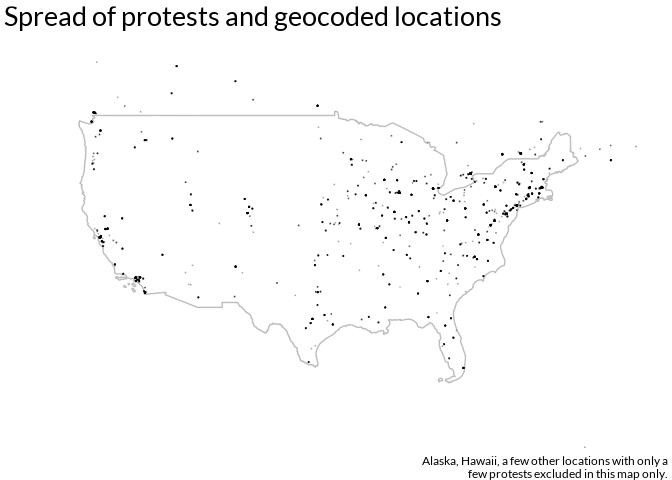
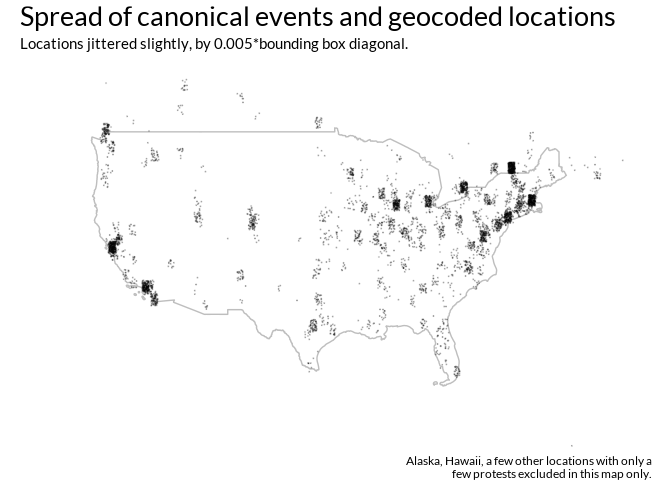
revisions

diff --git a/docs/exploratory_plots.md b/docs/exploratory_plots.md
@@ -28,18 +28,19 @@ The initial import of the MPEDS db found 5220 unique canonical events,
 and after all cleaning steps we still have 5220 canonical events.
 
 However, there’s still an issue regarding duplicate matches in IPEDS we
-can detect; there are lots of schools called “Columbia College” inside
-IPEDS, so any schools with that name in MPEDS will be assigned multiple
-schools. The MPEDS-IPEDS join is crucial because we also use IPEDS to
-join county FIPS identifiers, and thus no further joins will be accurate
-unless the MPEDS-IPEDS join is accurate. We currently have 5260 rows in
-the final dataset, indicating that this problem applies to some 40
-canonical events.
+can detect (there are likely also incorrect matches that we can’t detect
+programmatically right now); there are lots of schools called “Columbia
+College” (or another common name) inside IPEDS, so any schools with that
+name in MPEDS will be assigned multiple schools. The MPEDS-IPEDS join is
+crucial because we also use IPEDS to join county FIPS identifiers, and
+thus no further joins will be accurate unless the MPEDS-IPEDS join is
+accurate. We currently have 5260 rows in the final dataset, indicating
+that this problem applies to some 40 canonical events.
 
 Fixing it just requires a rewrite of how the join is done, so that we
-join on IDs, not names, for at least all ambiguous cases. This doesn’t
-require adjustments to the instructions given to student coders, but it
-does require a little bit of time on my part, so it hasn’t been
+join on IPEDS IDs, not names, for at least all ambiguous cases. This
+doesn’t require adjustments to the instructions given to student coders,
+but it does require a little bit of time on my part, so it hasn’t been
 completed yet.
 
 Of those events, there were 517 unique locations, 291 unique counties,
@@ -49,9 +50,10 @@ indicates that there isn’t a strong pattern of missing value
 substitution, e.g. Google isn’t sending the majority of results to the
 centroid of America or to `(-1, -1)` or anything weird like that.
 Universities had a harder time, with 23 universities and 133 rows
-(canonical events) not returning lon/lat coords. That comes out to \~5%
-of universities not having coordinates, and \~2.5% of canonical events
-not having universities with coordinates.
+(canonical events) not returning lon/lat coords for universities.
+
+That comes out to \~5% of universities not having coordinates, and
+\~2.5% of canonical events not having universities with coordinates.
 
 The top universities by appearances:
 
@@ -117,6 +119,45 @@ kable(location_counts)
 | Davis, CA, USA         |  47 |
 | Ithaca, NY, USA        |  46 |
 
+Top states:
+
+``` r
+state_fips <- fips_codes %>% 
+  select(state_code, state_name) %>% 
+  distinct()
+
+state_counts <- mpeds %>% 
+  mutate(state_code = str_sub(fips, 1, 2)) %>% 
+  group_by(state_code) %>% 
+  count() %>% 
+  ungroup() %>% 
+  drop_na() %>% 
+  slice_max(order_by = n, n = 15) %>% 
+  left_join(state_fips, by = "state_code") %>% 
+  select(-state_code)
+  
+kable(state_counts)
+```
+
+|   n | state_name           |
+|----:|:---------------------|
+| 730 | California           |
+| 332 | Massachusetts        |
+| 281 | New York             |
+| 254 | Illinois             |
+| 168 | Michigan             |
+| 160 | Pennsylvania         |
+| 144 | Texas                |
+| 108 | Florida              |
+| 107 | District of Columbia |
+| 106 | Virginia             |
+| 101 | North Carolina       |
+|  90 | Connecticut          |
+|  89 | Ohio                 |
+|  88 | Indiana              |
+|  85 | Missouri             |
+|  85 | New Jersey           |
+
 And finally the top counties:
 
 ``` r
@@ -156,8 +197,11 @@ kable(county_counts)
 |  43 | Boone County, Missouri                     |
 
 These glimpses seem mostly in line with what we should expect, with a
-strong caveat that the Missouri protests are not making an appearance
-here. That’s a bit alarming, so I’ll look into that.
+strong caveat that the Missouri protests are not making a leading
+appearance here. That’s a bit alarming; some playing around with the
+dataset reveals there are a fair number of protests both in Missouri and
+at University of Missouri-Columbia. There could still be errors here, so
+I’m continuing to revise the code.
 
 # Basic summary plots
 
@@ -311,6 +355,7 @@ mpeds_sf <- mpeds %>% left_join(county_sf, by = "fips")
 mpeds %>% 
   drop_na(location_lat, location_lng) %>% 
   st_as_sf(coords = c("location_lng", "location_lat"), crs = st_crs(county_sf)) %>% 
+  mutate(geometry = st_jitter(geometry, factor = 0.005)) %>% 
   ggplot() + 
   geom_sf(data = us_sf, fill = "white", color = "gray") + 
   geom_sf(size = 0.1, alpha = 0.2) + 
@@ -319,7 +364,8 @@ mpeds %>%
     y = c(20, 55)
   ) +
   labs(
-    title = "Spread of protests and geocoded locations",
+    title = "Spread of canonical events and geocoded locations",
+    subtitle = "Locations jittered slightly, by 0.005*bounding box diagonal.",
     caption = "Alaska, Hawaii, a few other locations with only a\nfew protests excluded in this map only."
     
   ) + 

diff --git a/README.md b/README.md
@@ -69,7 +69,12 @@ the following dependencies.
   SSH_USERNAME=<YOUR_USERNAME>
   GMAPS_API_KEY=<YOUR_API_KEY>
   ```
-
+  
+  The Google Maps API does require a valid credit card to use. But it gives $200
+  per month of requests for free, or 40,000 geocoding requests. We only have
+  about 1,200 unique places to geocode, so your card should generally not be
+  charged.
+  
 - **Census API Key**. The Census API also requires credentialed access;
   luckily it's quite easy to get. Visit
   [this link](http://api.census.gov/data/key_signup.html) to sign up for
